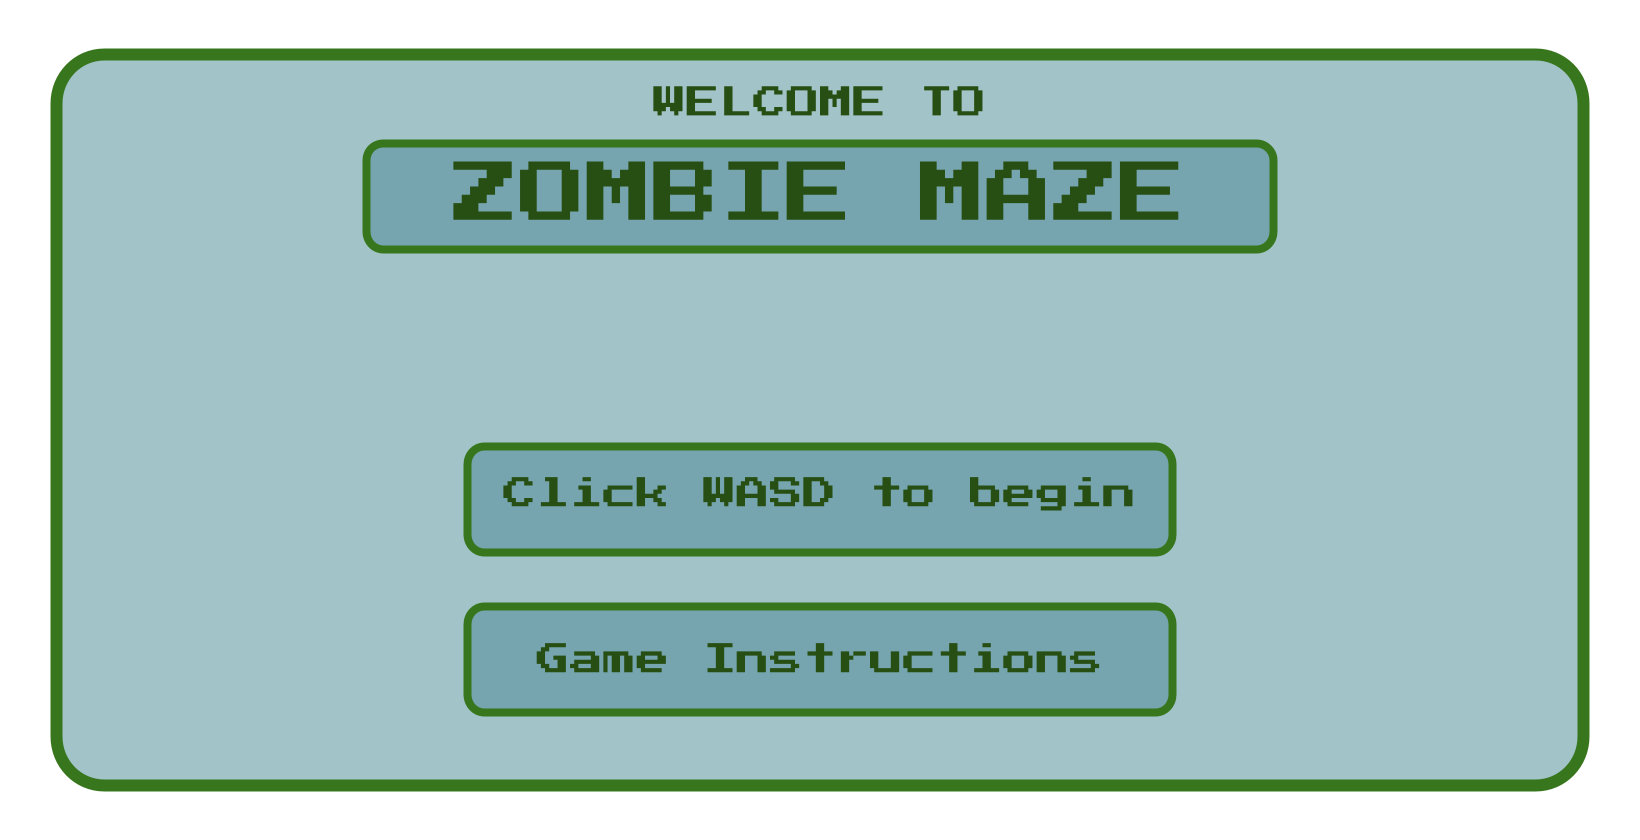
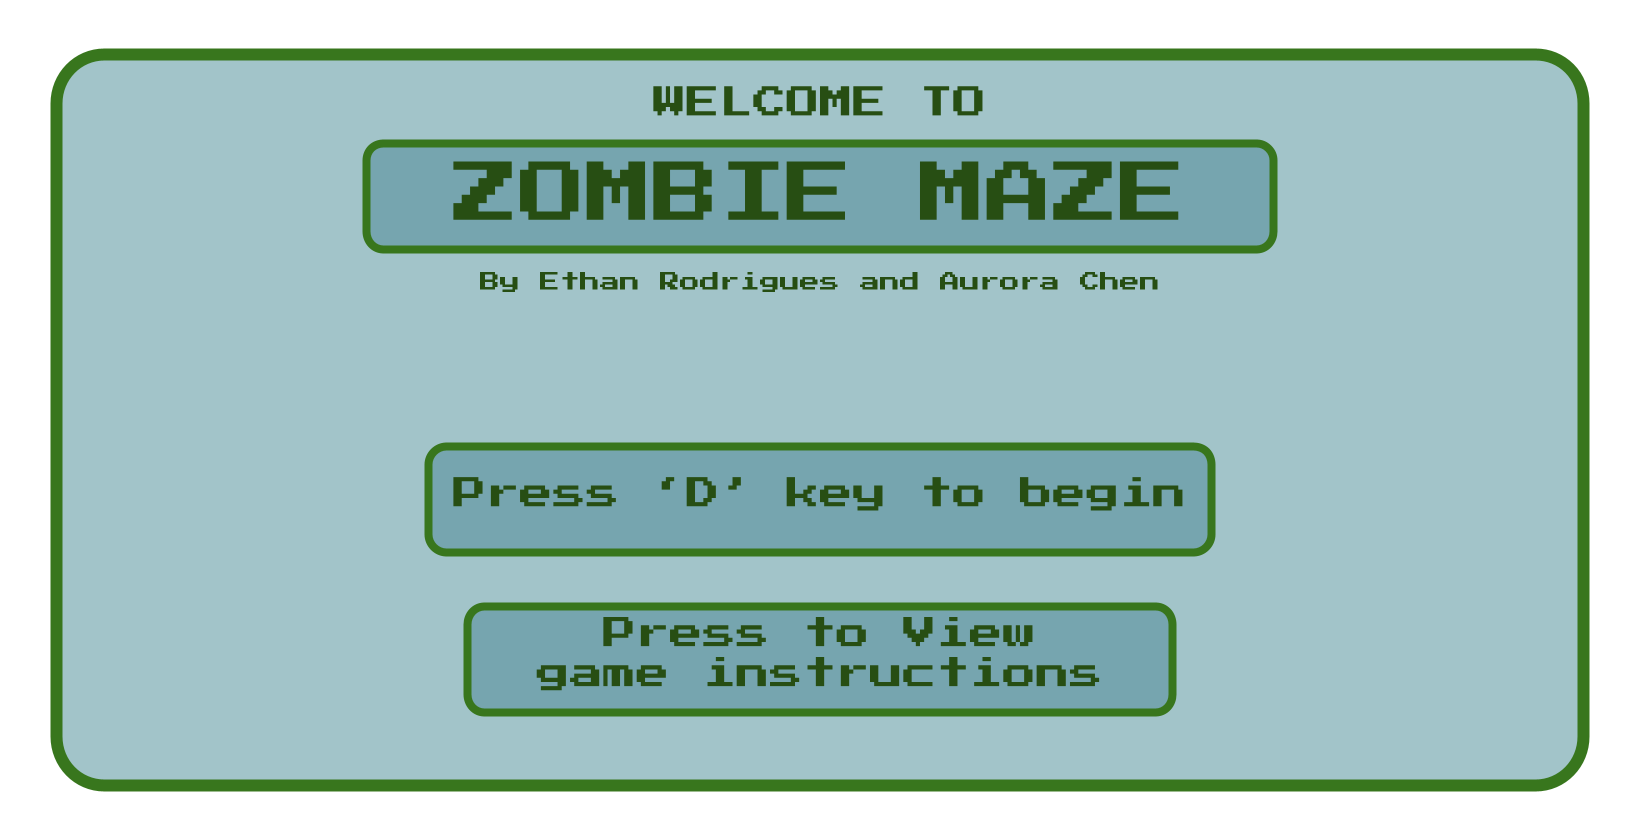
Menu Screens

Changed region(s): [[0.2488, 0.5262, 0.7463, 0.681], [0.311, 0.7429, 0.6841, 0.8357], [0.2799, 0.3095, 0.7152, 0.3714]]

diff --git a/Sketch.java b/Sketch.java
@@ -7,6 +7,7 @@ public class Sketch extends PApplet {
 
   // import images
   PImage imgKey;
+  PImage imgSmallKey;
   PImage imgFlashlightCircle;
   PImage imgRobot;
   PImage imgRobotStill;
@@ -26,12 +27,14 @@ public class Sketch extends PApplet {
   int zombieWidth = 64;
   PImage imgBackground;
   PImage imgHeart;
+  PImage imgEmptyHeart;
   
   // main screen images
   PImage imgInstructionScreen;
   PImage imgLooseScreen;
   PImage imgMenuScreen;
   PImage imgWinScreen;
+  boolean showingMenu = false;
 
   // zombie location variables
   float Zombie1X = 150;
@@ -115,6 +118,13 @@ public class Sketch extends PApplet {
    imgBackground = loadImage("Background.png");
   // imgBackground.resize(width, height);
    imgHeart = loadImage("heart.png");
+   imgHeart.resize(30,30);
+   imgEmptyHeart = loadImage("EmptyHeart.png");
+   imgEmptyHeart.resize(30,30);
+   imgSmallKey =loadImage("keyImage.png");
+   imgSmallKey.resize(75,50);
+
+
 
    // main screen images
    imgInstructionScreen = loadImage("InstructionScreen.png");
@@ -434,26 +444,82 @@ public class Sketch extends PApplet {
       } 
     }
 
-
-    // FOR TESTING, REMOVE LATER
-
-    if (mousePressed){
-      playerX = mouseX;
-      playerY = mouseY;
-    }
-    textSize(50);
-    fill(0, 408, 612);
-    text((playerX + "," + playerY),0,50);
-
-    // display lives and keys
-    textSize(50);
-    fill(0, 408, 612);
-    text("Lives: " + playerLives ,0,100);
-    text("Keys: " + keysCollected ,0,150);
-
-
     // flashlight movement
     image(imgFlashlightCircle, ((playerX - imgFlashlightCircle.width/2 ) + 50), ((playerY - imgFlashlightCircle.height/2) + 50 ));
+
+    // draw lives and keys collected
+    if(keysCollected == 1){
+      image(imgSmallKey,1555,780);
+    }
+    else if(keysCollected == 2){
+      image(imgSmallKey,1555,780);
+      image(imgSmallKey,1480,780);
+    }
+    else if(keysCollected == 3){
+      image(imgSmallKey,1555,780);
+      image(imgSmallKey,1480,780);
+      image(imgSmallKey,1405,780);
+    }
+    else if(keysCollected == 4){
+      image(imgSmallKey,1555,780);
+      image(imgSmallKey,1480,780);
+      image(imgSmallKey,1405,780);
+      image(imgSmallKey,1330,780);
+    }
+
+    if(playerLives == 5){
+      image(imgHeart,10,10);
+      image(imgHeart,40,10);
+      image(imgHeart,70,10);
+      image(imgHeart,100,10);
+      image(imgHeart,130,10);
+    }
+    else if(playerLives == 4){
+      image(imgHeart,10,10);
+      image(imgHeart,40,10);
+      image(imgHeart,70,10);
+      image(imgHeart,100,10);
+      image(imgEmptyHeart,130,10);
+    }
+    else if(playerLives == 3){
+      image(imgHeart,10,10);
+      image(imgHeart,40,10);
+      image(imgHeart,70,10);
+      image(imgEmptyHeart,100,10);
+      image(imgEmptyHeart,130,10);
+    }
+    else if(playerLives == 2){
+      image(imgHeart,10,10);
+      image(imgHeart,40,10);
+      image(imgEmptyHeart,70,10);
+      image(imgEmptyHeart,100,10);
+      image(imgEmptyHeart,130,10);
+    }
+    else if(playerLives == 1){
+      image(imgHeart,10,10);
+      image(imgEmptyHeart,40,10);
+      image(imgEmptyHeart,70,10);
+      image(imgEmptyHeart,100,10);
+      image(imgEmptyHeart,130,10);
+    }
+    else if(playerLives == 0){
+      fill(139, 163, 155);
+      rect(0,0,1640,840);
+      image(imgLooseScreen,0,0);
+      if(mousePressed && playerLives == 0){
+       keysCollected = 0;
+       playerLives = 5;
+       playerX = -22;
+       playerY = 316;
+       showKey1 = true;
+       showKey2 = true;
+       showKey3 = true;
+       showKey4 = true;
+
+      }
+    }
+
+
 
     // win screen 
     if(playerX >= 1560){
@@ -462,18 +528,30 @@ public class Sketch extends PApplet {
 
     // menu screen 
     if(playerX == -22 && playerY == 316){
-    fill(181, 142, 110);
-    rect(20,20,1600,800);
-    textSize(150);
-    fill(0, 408, 612);
-    text("Press the W, A, S or D key to move",800,200);
-    rect(800,400,400,200);
-    textSize(50);
-    fill(0, 408, 612);
-    text(strRedo,800,400);
+      image(imgMenuScreen,0,0);
+      showingMenu = true;
+      image(zombieFrames[(frameCount/10)%intWalkingZombieFrames], 720, 360);
+      image(robotFrames[(frameCount/3)%intWalkingRobotFrames], 850, 360);
+
+      if(mousePressed){
+        if(mouseX > 470 && mouseX < 1170 && mouseY > 600 && mouseY < 710){
+          image(imgInstructionScreen,0,0);
+        }
+      }
 
     }
 
+  // FOR TESTING, REMOVE LATER
+   text((playerX + "," + playerY),0,50);
+  
+    if (mousePressed){
+      playerX = mouseX;
+      playerY = mouseY;
+    }
+     textSize(50);
+    fill(0, 408, 612);
+    text((playerX + "," + playerY),0,50);
+    
   }
 
   public boolean canMoveUP(float playerX, float playerY){
@@ -520,6 +598,9 @@ public class Sketch extends PApplet {
       return false;
     }
     else if(playerX > 1173 && playerX < 1515 && playerY > 690 && playerY < 710){
+      return false;
+    }
+    else if(playerX > -30 && playerX < 20 && playerY > 280 && playerY < 340){
       return false;
     }
     else{
@@ -573,6 +654,9 @@ public class Sketch extends PApplet {
     else if(playerX > 1170 && playerX < 1480 && playerY > 630 && playerY < 645){
       return false; 
     }
+    else if(playerX > -30 && playerX < 20 && playerY > 280 && playerY < 340){
+      return false;
+    }
     else{
       return true;
     }
@@ -583,7 +667,7 @@ public class Sketch extends PApplet {
       return false;
     }
     //else if(playerX > 1560 &&(playerY))
-    else if (playerX > 46 && playerX < 220 && playerY > 50 && playerY < 400 ){
+    else if (playerX > 70 && playerX < 220 && playerY > 50 && playerY < 400 ){
       return false;
     }
     else if(playerY < 110 && playerX > 156 && playerX < 210){
@@ -640,10 +724,10 @@ public class Sketch extends PApplet {
     if (playerX <= 30){
       return false;
     }
-    else if (playerX < 156 && playerX > 30 && playerY < 690 && playerY > height / 2){
+    else if (playerX < 156 && playerX > 20 && playerY < 690 && playerY > height / 2){
       return false;
     }
-    else if (playerX < 156 && playerX > 30 && playerY > 50 && playerY < height / 2){
+    else if (playerX < 156 && playerX > 20 && playerY > 50 && playerY < height / 2){
       return false;
     }
     else if (playerX < 230 && playerX > 225 && playerY > 10 && playerY < 335){
@@ -697,23 +781,23 @@ public class Sketch extends PApplet {
   }
 
   public void displayWinScreen(){
-    fill(181, 142, 110);
-    rect(20,20,1600,800);
-    textSize(150);
-    fill(0, 408, 612);
-    text(strWin,800,200);
-    rect(800,400,400,200);
-    textSize(50);
-    fill(0, 408, 612);
-    text(strRedo,800,400);
+    image(imgWinScreen,0,0);
+
   }
   
   public void playerLifeLost(){
     playerLives = playerLives - 1;
     playerX = 22;
     playerY = 315;
-
+    if(mousePressed && keysCollected == 4){
+      keysCollected = 0;
+      playerLives = 5;
+      playerX = -22;
+      playerY = 316;
+      showKey1 = true;
+      showKey2 = true;
+      showKey3 = true;
+      showKey4 = true;
+     }
   }
-
-
 }
